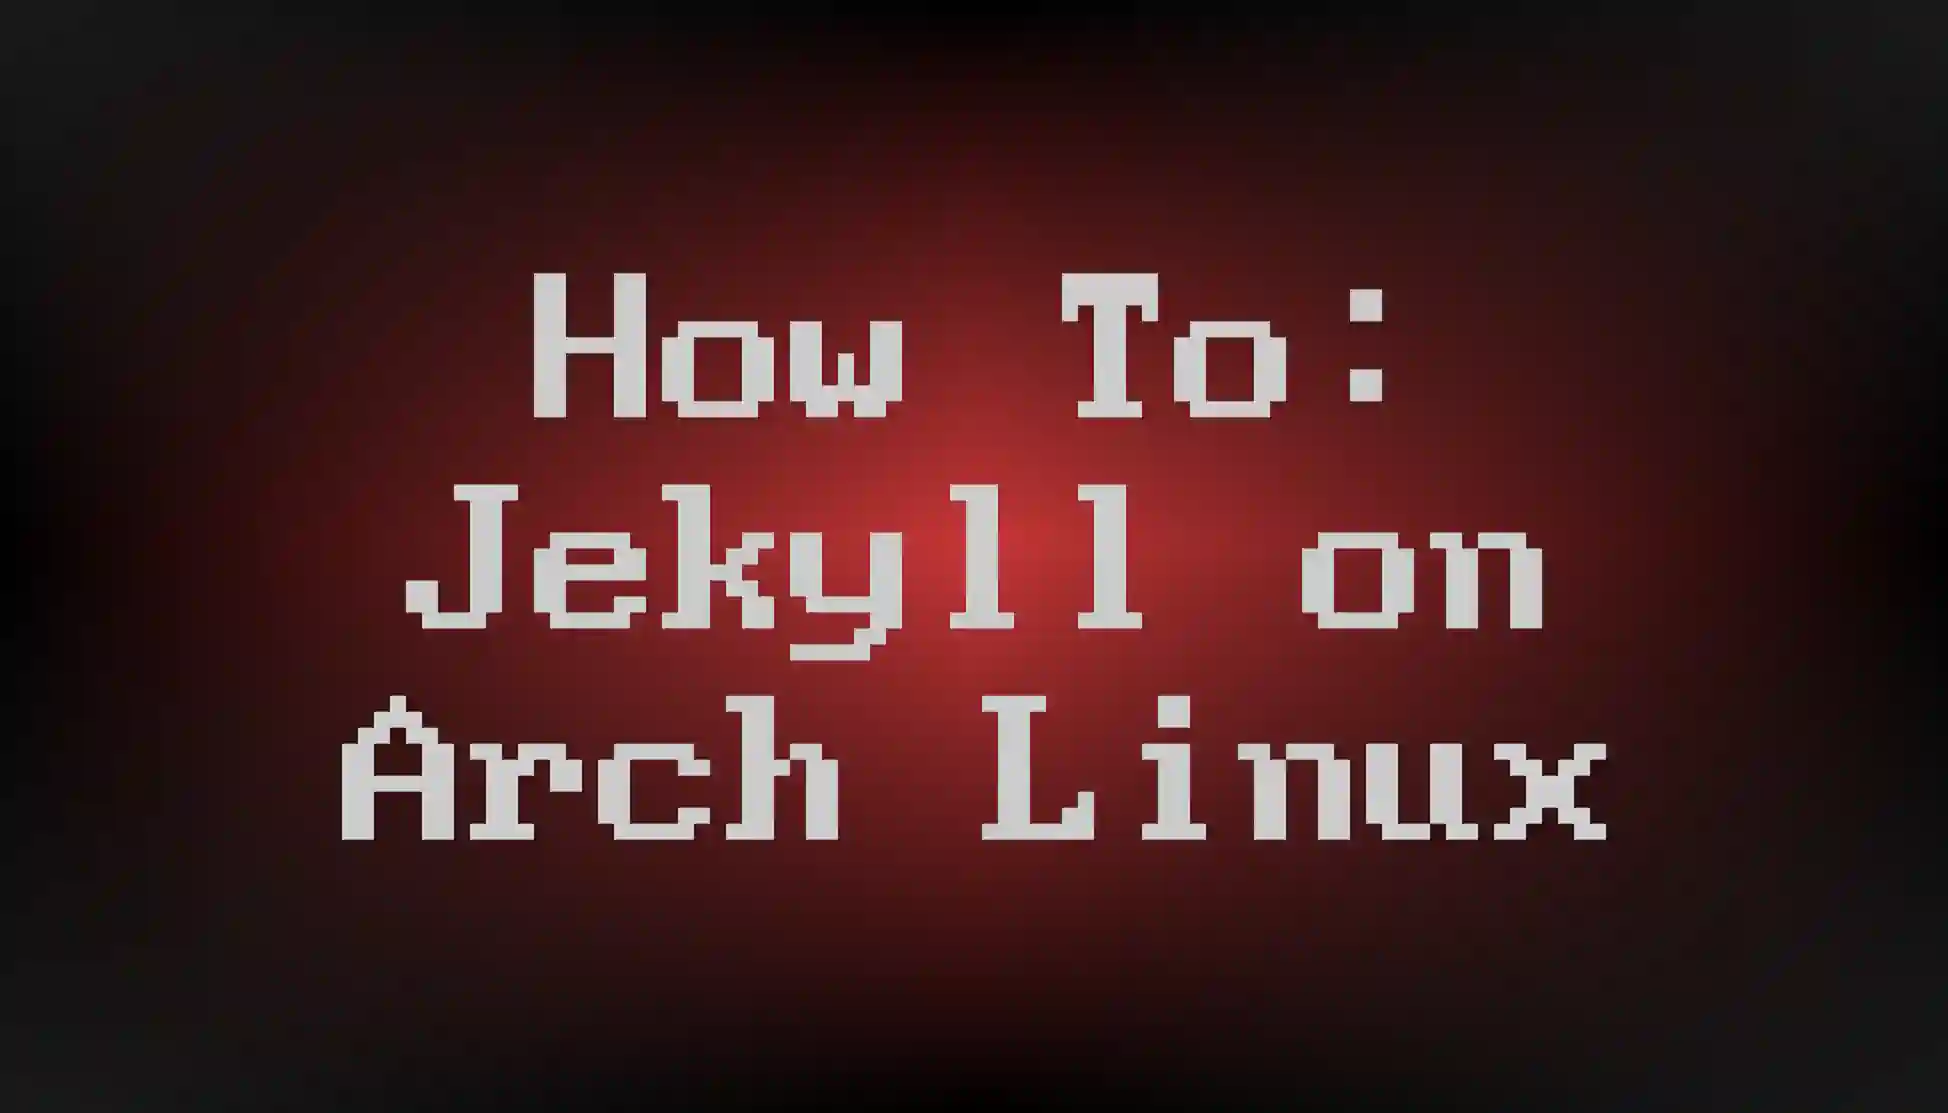
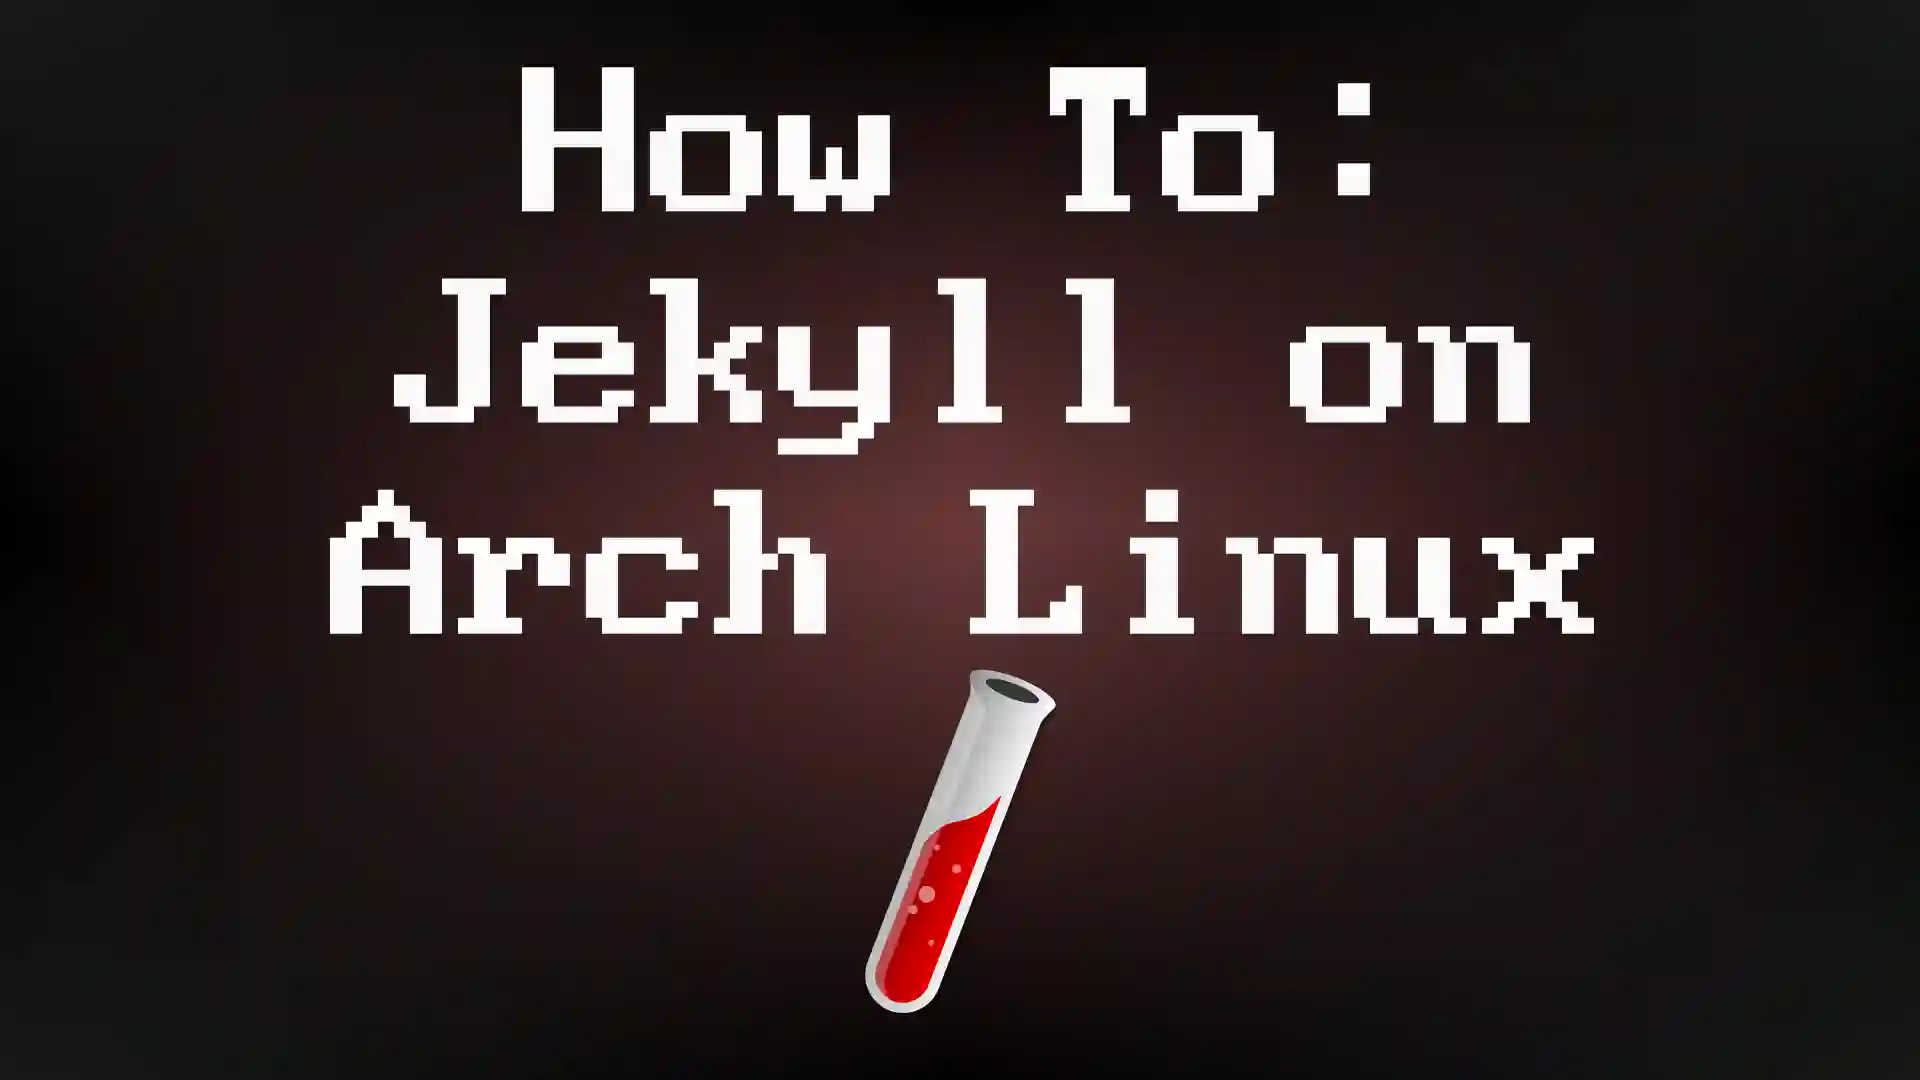
adding how to: jekyll on arch and header

diff --git a/_posts/2025-07-15-howto-jekyll-install-arch.md b/_posts/2025-07-15-howto-jekyll-install-arch.md
@@ -1,0 +1,214 @@
+---
+title: "How To: Install Jekyll (Static site generator)"
+description: Jekyll is a Static Site Generator
+layout: post
+date: 2025-07-15 11:33:00
+modified: 2026-02-06 13:30
+categories:
+  - web
+  - ssg
+tags:
+  - web
+  - ssg
+  - jekyll
+comments: false
+image:
+  path: assets/img/headers/howto-jekyll-arch.webp
+---
+
+> If you find any of the software shown here useful and want to show the developers some ❤, you might consider giving them a ⭐ on GitHub or perhaps fuel their next update or release by buying them a ☕, even better would be something a little stronger 🍺 by becoming a Patron on Patreon.
+{: .prompt-tip }
+
+### Prerequisites
+
+Jekyll requires the following:
+
+- [Ruby](https://archlinux.org/packages/extra/x86_64/ruby/) version **2.7.0** or higher - `ruby -v`
+- [RubyGems](https://archlinux.org/packages/extra/any/rubygems/) - `gem -v`
+- [GCC](https://archlinux.org/packages/core/x86_64/gcc/) - `gcc -v`  & `g++ -v` 
+- [Make](https://archlinux.org/packages/core/x86_64/make/)  - `make -v`
+
+#### Installing Prerequisites
+
+##### Environments variables:
+
+Below are some environment variables for `export`,  you can add them to your `.zshrc`, `.zshenv` or `.bashrc` files.
+
+**[XDG](https://wiki.archlinux.org/title/XDG_Base_Directory#Supported) USER DIRS:** <br>
+Below are the [XDG Base Directory Specification](https://specifications.freedesktop.org/basedir/latest/#index) environment variables for where to put files and configuration on your Linux system. This will ensure your `$HOME` is kept clean. 😉
+```shell
+export XDG_CONFIG_HOME=$HOME/.config
+export XDG_CACHE_HOME=$HOME/.cache
+export XDG_DATA_HOME=$HOME/.local/share
+export XDG_STATE_HOME=$HOME/.local/state
+```
+{: file='~/.zshenv'}
+{: .nolineno }
+
+**[GO](https://wiki.archlinux.org/title/Ruby#RubyGems):** <br>
+Here we are setting the `GEM_HOME` directory using the `gem` command (This will only be possible after you have installed it)  and then adding the path for `GEM_HOME` to our `PATH` environment variable. 
+```shell
+export GEM_HOME="$(gem env user_gemhome)"
+export PATH="$PATH:$GEM_HOME/bin"
+```
+{: file='~/.zshenv'}
+{: .nolineno }
+
+**[Bundler](https://bundler.io/v2.5/man/bundle-config.1.html#CONFIGURE-BUNDLER-DIRECTORIES):** <br>
+Bundler's home, cache and plugin directories and config file can be configured through environment variables. The default location for Bundler's home directory is `~/.bundle`. 😞
+```shell
+export BUNDLE_USER_CACHE=$XDG_CACHE_HOME/bundle
+export BUNDLE_USER_CONFIG=$XDG_CONFIG_HOME/bundle/config
+export BUNDLE_USER_PLUGIN=$XDG_DATA_HOME/bundle
+```
+{: file='~/.zshenv'}
+{: .nolineno }
+
+Below is a quick snippet of code that will `echo` the environment variables into your `.bashrc` or `.zshrc` depending on what you are running, simply comment out or delete the other.
+
+```shell
+## Jekyll webiste
+echo '# Ruby Gems' >> ~/.bashrc ##~/.zshrc
+echo 'export GEM_HOME="$XDG_CONFIG_HOME/gems"' >> ~/.bashrc ##~/.zshrc
+echo 'export PATH="$HOME/gems/bin:$PATH"' >> ~/.bashrc ##~/.zshrc
+# Arch Wiki Ruby
+echo 'export GEM_HOME="$(gem env user_gemhome)"' >> ~/.bashrc ##~/.zshrc
+echo 'export PATH="$PATH:$GEM_HOME/bin"' >> ~/.bashrc ##~/.zshrc
+# Bundler
+echo 'export BUNDLE_USER_CACHE=$XDG_CACHE_HOME/bundle' >> ~/.bashrc ##~/.zshrc
+echo 'export BUNDLE_USER_CONFIG=$XDG_CONFIG_HOME/bundle/config' >> ~/.bashrc ##~/.zshrc
+echo 'export BUNDLE_USER_PLUGIN=$XDG_DATA_HOME/bundle' >> ~/.bashrc ##~/.zshrc
+source ~/.bashrc ##~/.zshrc
+```
+{: .nolineno }
+
+Make sure to source your `.bashrc` or `.zshrc` files before you install the packages.
+
+##### Package Installation
+
+On Arch Linux and Arch-based we have `pacman`, update and then install `ruby`,  `rubygems`,  `base-devel` and `ruby-erb` packages. `gcc` and `make` are generally installed by default on most systems but in case it is not, make sure to install it as well.
+
+You can run the below commands to `update` and `install` the packages:
+```shell
+sudo pacman -Syu
+# Usually installed by default
+sudo pacman -S gcc make
+# Main packages
+sudo pacman -S ruby rubygems base-devel ruby-erb
+```
+{: .nolineno }
+
+Lets check that everything is installed by checking the `version` for each command.
+
+`ruby --version`
+![](/assets/img/posts/jekyll/ruby-version.png)
+
+`gem --version`
+![](/assets/img/posts/jekyll/gem-version.png)
+
+---
+
+### Installation:
+
+Now that we have installed the prerequisites, we can use `gems` and begin installing `Jekyll` and `bundler`. <br>
+We then run:
+```shell
+gem install jekyll 
+gem install bundler
+# One-liner
+gem install jekyll bundler
+```
+{: .nolineno }
+
+Check that everything is installed by querying the `version` for each command.
+
+`jekyll --version`
+![](/assets/img/posts/jekyll/jekyll-version.png)
+
+`bundler --version`
+![](/assets/img/posts/jekyll/bundler-version.png)
+
+You are set.
+
+---
+
+### Build That S<span style="color:#d79921">#!</span><span hidden>hi</span>t (BTS)
+
+#### Project/Theme:
+
+Now that we have everything installed, the fun can begin. You can use `jekyll` and start a new site or you can use a theme to get your project started. Below I have outlined examples on both. <br> 
+That being said, the developers put a lot of time into their documentation, never hesitate to give it a read when you are unsure of something. <br> 
+Jekyll has some good docs and a section on getting started [here](https://jekyllrb.com/docs/).
+
+##### Projects:
+
+Starting a new blog:<br>
+We create a new site by running below command:
+```shell
+# 'blog' is the name of the project (site), be sure to change it to your specification.
+jekyll new blog
+```
+{: .nolineno }
+
+![](/assets/img/posts/jekyll/jekyll-new-site.png)
+
+`cd` into your new site directory, in this case `blog/` :
+```shell
+cd blog
+```
+{: .nolineno }
+
+![](/assets/img/posts/jekyll/ls-site.png)
+Build and run your `jekyll` site with the below command:
+```shell
+bundle exec jekyll serve
+```
+{: .nolineno }
+
+**Visit your development site:** <br>
+Your `localhost` on port `4000`
+- <http://localhost:4000> - `localhost:4000`
+
+> If you have a theme you want to install, there will usually be build instructions in the themes repository and generally in the `README.md` or in their documentation 📚 , these open-source developers are thoughtful that way. 😎
+{: .prompt-info }
+
+##### Theme:
+
+Below is only a general outline, some themes might have specific dependencies and requirements, be sure to have a look at the `README.md`.
+
+**Install project dependencies.** <br>
+Build and install dependencies for your theme by running `bundle --install`:
+```shell
+cd <PROJECT_DIR>
+bundle --version
+bundle install
+```
+{: .nolineno }
+
+You can then `serve` your development site on your <http://localhost> by running:
+```shell
+bundle exec jekyll serve
+```
+{: .nolineno }
+
+**Visit your development site:**<br>
+Your `localhost` on port `4000`
+- <http://localhost:4000> - `localhost:4000`
+
+**Real world example:**
+
+This blog is a [fork](https://github.com/cotes2020/jekyll-theme-chirpy) of a theme that was created by this lovely animal, [Cotes Chung](https://github.com/cotes2020).  <br>
+If you would like to know how I installed it, have a look at this developers documentation page on getting started with GitHub pages [here](https://chirpy.cotes.page/posts/getting-started/).
+
+> If you like this theme and the work that [Cotes Chung](https://chirpy.cotes.page/) has done, you can always show your appreciation by clicking that  ⭐ and/or supporting their work with a ☕.
+{: .prompt-tip }
+
+---
+
+**References:**
+- <https://jekyllrb.com/docs/installation/#requirements> - Jekyll installation requirements. 
+- <https://jekyllrb.com/docs/installation/other-linux/> - Jekyll documentation for installing on other Linux systems
+- <https://jekyllrb.com/docs/installation/ubuntu/> -  Jekyll documentation for installation on Ubuntu as reference for other Linux operating systems.
+- <https://wiki.archlinux.org/title/XDG_Base_Directory#Supported> - The Arch Wiki entry for XDG application and package support.
+- <https://wiki.archlinux.org/title/Ruby#RubyGems> - Arch Wiki entry for Ruby Gems
+- -  [ ] Buy A Beer. <https://cristalcorp.github.io/blog/2024/09/20/Jekyll_On_Arch.html> - Helpful blog post for installing Jekyll on Arch Linux. 
